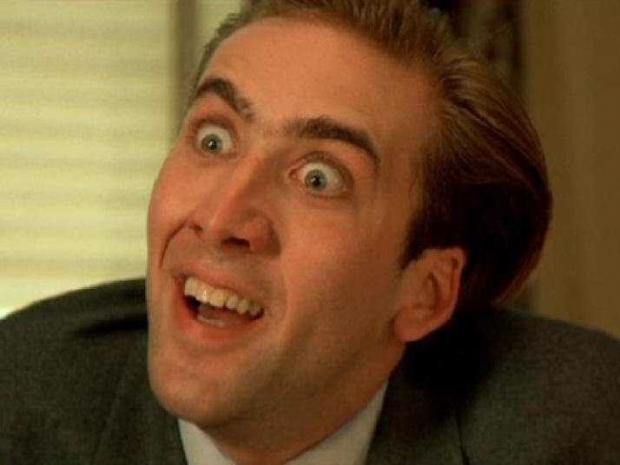
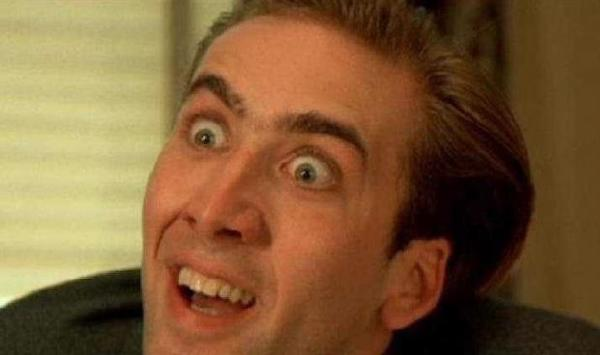
image sizes

diff --git a/ideaBot.js b/ideaBot.js
@@ -52,11 +52,14 @@ exports.newIdea = (req, res) => {
       imageNames.push(file)
     })
     const imageName = imageNames[Math.floor(Math.random() * imageNames.length)]
+    image = await Jimp.read(`images/${imageName}`)
+    newImage = await image.clone()
+    await newImage.resize(600, Jimp.AUTO)
+
     let x = 10
     let y = 10
-    image = await Jimp.read(imageName)
-    let font = await Jimp.loadFont(Jimp.FONT_SANS_64_WHITE)
-    image = await image.print(
+    let font = await Jimp.loadFont(Jimp.FONT_SANS_32_WHITE)
+    await newImage.print(
       font,
       x,
       y,
@@ -64,10 +67,10 @@ exports.newIdea = (req, res) => {
         text: text,
         alignmentX: Jimp.HORIZONTAL_ALIGN_CENTER
       },
-      500,
-      200
+      580,
+      110
     )
-    return image
+    return newImage
   }
 
   async function postToTwitter(image) {
@@ -78,24 +81,10 @@ exports.newIdea = (req, res) => {
       access_token_secret: process.env.TWITTER_ACCESS_TOKEN_SECRET
     })
 
-    // let imageID = await uploadImage(client, image)
+    let imageID = await uploadImage(client, image)
 
     try {
-      // const media_id = client.post('media/upload', { media: image })
-      // return media_id
-      initUpload() // Declare that you wish to upload some media
-        .then(appendUpload) // Send the data for the media
-        .then(finalizeUpload) // Declare that you are done uploading chunks
-        .then(mediaId => {
-          // You now have an uploaded movie/animated gif
-          // that you can reference in Tweets, e.g. `update/statuses`
-          // will take a `mediaIds` param.
-          const status = client.post('statuses/update', { media_ids: mediaId })
-        })
-        .then(status => {
-          console.log(status)
-          return status
-        })
+      return await client.post('statuses/update', { media_ids: imageID })
     } catch (err) {
       console.log(err)
       return false
@@ -104,75 +93,11 @@ exports.newIdea = (req, res) => {
 
   async function uploadImage(client, image) {
     try {
-      // const media_id = client.post('media/upload', { media: image })
-      // return media_id
-      initUpload() // Declare that you wish to upload some media
-        .then(appendUpload) // Send the data for the media
-        .then(finalizeUpload) // Declare that you are done uploading chunks
-        .then(mediaId => {
-          // You now have an uploaded movie/animated gif
-          // that you can reference in Tweets, e.g. `update/statuses`
-          // will take a `mediaIds` param.
-        })
+      const media_id = client.post('media/upload', { media: image })
+      return media_id
     } catch (err) {
       console.log(err)
       return false
     }
-  }
-
-  /**
-   * Step 1 of 3: Initialize a media upload
-   * @return Promise resolving to String mediaId
-   */
-  function initUpload() {
-    return makePost('media/upload', {
-      command: 'INIT',
-      total_bytes: mediaSize,
-      media_type: mediaType
-    }).then(data => data.media_id_string)
-  }
-
-  /**
-   * Step 2 of 3: Append file chunk
-   * @param String mediaId    Reference to media object being uploaded
-   * @return Promise resolving to String mediaId (for chaining)
-   */
-  function appendUpload(mediaId) {
-    return makePost('media/upload', {
-      command: 'APPEND',
-      media_id: mediaId,
-      media: mediaData,
-      segment_index: 0
-    }).then(data => mediaId)
-  }
-
-  /**
-   * Step 3 of 3: Finalize upload
-   * @param String mediaId   Reference to media
-   * @return Promise resolving to mediaId (for chaining)
-   */
-  function finalizeUpload(mediaId) {
-    return makePost('media/upload', {
-      command: 'FINALIZE',
-      media_id: mediaId
-    }).then(data => mediaId)
-  }
-
-  /**
-   * (Utility function) Send a POST request to the Twitter API
-   * @param String endpoint  e.g. 'statuses/upload'
-   * @param Object params    Params object to send
-   * @return Promise         Rejects if response is error
-   */
-  function makePost(endpoint, params) {
-    return new Promise((resolve, reject) => {
-      client.post(endpoint, params, (error, data, response) => {
-        if (error) {
-          reject(error)
-        } else {
-          resolve(data)
-        }
-      })
-    })
   }
 }
